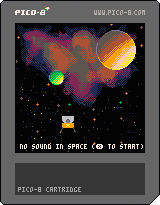
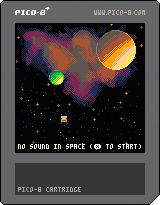
Fix text bug and cart images.

Changed region(s): [[0.0938, 0.6732, 0.9062, 0.7317], [0.375, 0.5561, 0.4688, 0.6439]]

diff --git a/docs/nosoundinspace.js b/docs/nosoundinspace.js
@@ -68,16 +68,16 @@ var _cartdat=[
 0,0,0,0,0,0,0,0,0,0,0,0,0,0,0,0,0,16,0,0,0,0,0,0,0,0,0,0,0,0,0,0,0,0,0,0,0,0,0,0,0,0,0,0,0,0,0,0,0,0,0,0,0,0,0,0,0,0,0,0,0,0,0,0,0,0,0,0,0,0,0,0,0,0,0,0,0,0,0,0,0,0,0,0,0,16,0,0,0,0,0,0,0,0,0,0,0,0,0,0,0,0,0,0,0,0,0,0,0,0,0,0,0,0,0,0,0,0,0,0,0,0,0,0,0,0,0,0,0,0,0,0,0,0,0,0,0,0,0,0,0,0,0,0,0,0,0,0,0,0,0,0,0,16,0,0,0,0,0,0,0,0,0,0,0,0,0,0,0,0,0,0,0,0,0,0,0,0,0,0,0,0,0,0,0,0,0,0,0,0,0,0,0,0,0,0,0,0,0,0,0,0,0,0,0,0,0,0,0,0,0,0,0,0,0,0,0,0,0,0,0,16,0,0,0,0,0,0,0,0,0,0,0,0,0,0,0,0,0,0,0,0,0,0,0,0,0,0,0,0,0,0,0,0,0,0,
 0,0,0,0,0,0,0,0,0,0,0,0,0,0,0,0,0,0,0,0,0,0,0,0,0,0,0,0,0,0,0,0,0,16,0,0,0,0,0,0,0,0,0,0,0,0,0,0,0,0,0,0,0,0,0,0,0,0,0,0,0,0,0,0,0,0,0,0,0,0,0,0,0,0,0,0,0,0,0,0,0,0,0,0,0,0,0,0,0,0,0,0,0,0,0,0,0,0,0,0,0,16,0,0,0,0,0,0,0,0,0,0,0,0,0,0,0,0,0,0,0,0,0,0,0,0,0,0,0,0,0,0,0,0,0,0,0,0,0,0,0,0,0,0,0,0,0,0,0,0,0,0,0,0,0,0,0,0,0,0,0,0,0,0,0,0,0,0,0,16,0,0,0,0,0,0,0,0,0,0,0,0,0,0,0,0,0,0,0,0,0,0,0,0,0,0,0,0,0,0,0,0,0,0,0,0,0,0,0,0,0,0,0,0,0,0,0,0,0,0,0,0,0,0,0,0,0,0,0,0,0,0,0,0,0,0,0,16,0,0,0,0,0,0,0,0,0,0,0,0,0,0,0,0,0,0,
 0,0,0,0,0,0,0,0,0,0,0,0,0,0,0,0,0,0,0,0,0,0,0,0,0,0,0,0,0,0,0,0,0,0,0,0,0,0,0,0,0,0,0,0,0,0,0,0,0,16,0,0,0,0,0,0,0,0,0,0,0,0,0,0,0,0,0,0,0,0,0,0,0,0,0,0,0,0,0,0,0,0,0,0,0,0,0,0,0,0,0,0,0,0,0,0,0,0,0,0,0,0,0,0,0,0,0,0,0,0,0,0,0,0,0,0,0,16,0,0,0,0,0,0,0,0,0,0,0,0,0,0,0,0,0,0,0,0,0,0,0,0,0,0,0,0,0,0,0,0,0,0,0,0,0,0,0,0,0,0,0,0,0,0,0,0,0,0,0,0,0,0,0,0,0,0,0,0,0,0,0,0,0,0,0,16,0,0,0,0,0,0,0,0,0,0,0,0,0,0,0,0,0,0,0,0,0,0,0,0,0,0,0,0,0,0,0,0,0,0,0,0,0,0,0,0,0,0,0,0,0,0,0,0,0,0,0,0,0,0,0,0,0,0,0,0,0,0,0,0,0,0,0,16,0,0,
-0,112,120,97,44,192,9,231,103,191,194,253,103,191,194,241,47,16,237,22,183,191,195,225,183,223,158,62,192,249,175,208,230,237,253,135,92,178,54,96,128,39,8,227,186,137,108,143,224,188,226,45,138,168,29,121,132,141,210,14,51,118,56,234,162,178,94,10,222,97,202,139,93,241,18,137,55,22,178,29,111,220,229,119,117,218,65,215,181,237,117,73,114,93,146,228,197,107,20,197,144,200,144,4,177,252,56,46,28,139,135,22,215,242,137,168,24,17,34,243,200,138,168,128,180,128,232,216,196,64,222,110,88,219,190,113,17,219,243,62,251,219,43,241,67,84,249,129,7,166,215,201,8,5,106,65,215,37,185,32,193,133,73,227,25,163,217,230,190,36,42,26,225,243,28,40,114,38,70,14,159,108,108,78,248,125,10,68,73,174,124,38,64,126,106,148,175,149,40,255,100,74,131,169,86,167,252,206,3,215,45,120,66,109,96,54,62,79,12,33,89,83,18,63,61,163,25,36,140,178,160,138,18,68,19,126,138,99,141,147,44,80,58,255,127,168,157,127,126,151,247,85,108,172,14,76,
-213,199,53,75,237,144,100,84,23,233,46,140,141,214,89,249,78,73,107,138,32,139,147,188,150,63,16,113,90,202,86,54,116,214,37,24,159,55,176,253,249,10,130,240,24,24,204,36,162,130,237,160,40,197,24,130,162,125,136,133,13,123,75,4,206,47,140,71,131,59,59,67,51,85,124,169,217,226,133,56,49,156,94,248,33,96,174,106,52,83,10,158,45,22,138,58,144,15,175,132,131,140,139,160,197,180,48,124,183,251,80,86,252,71,191,223,7,205,198,136,180,248,127,237,142,75,139,191,154,243,85,91,92,204,178,50,168,5,150,162,118,231,49,162,100,164,88,169,39,4,202,226,93,129,242,169,214,250,68,127,255,207,64,187,172,189,161,192,111,193,245,77,52,19,125,51,144,22,170,235,151,110,254,145,111,121,254,210,163,80,13,255,129,24,225,243,253,171,30,238,122,76,64,252,150,199,81,136,137,213,222,95,237,249,83,175,156,190,143,102,185,69,240,63,97,229,141,44,109,27,89,117,141,91,43,8,160,43,124,209,124,191,178,54,224,134,217,106,114,96,136,187,194,229,108,236,
-10,106,92,160,16,98,134,162,105,66,21,141,129,141,180,77,189,131,82,33,132,20,26,25,98,73,153,134,143,194,165,39,246,24,18,34,219,242,95,132,23,34,253,177,177,54,47,244,15,145,192,92,36,252,63,55,215,22,138,57,221,141,5,33,145,182,28,214,114,41,212,198,155,231,175,161,16,154,87,98,239,83,55,219,48,135,254,137,146,233,138,16,242,64,189,162,125,142,68,236,96,194,16,129,15,218,70,121,48,80,23,18,221,71,63,23,200,135,71,27,89,38,161,212,186,191,85,151,81,51,140,50,195,41,174,202,46,33,201,74,32,45,254,37,248,25,110,231,234,137,91,110,255,151,4,57,212,54,69,200,255,255,255,47,69,241,67,190,83,54,182,147,111,89,181,59,4,29,21,242,207,106,70,1,253,212,160,7,21,135,255,146,196,255,161,121,189,228,44,61,252,233,65,203,225,104,191,67,245,73,253,253,209,146,20,108,21,202,127,82,187,8,200,109,204,41,137,22,133,158,184,138,66,86,126,69,97,163,54,225,24,209,73,82,17,63,196,222,127,76,141,140,37,123,141,98,
-132,206,242,132,84,63,114,217,254,4,10,99,214,150,26,210,170,255,161,234,254,203,185,129,178,143,217,51,238,124,180,141,90,248,51,166,22,174,64,45,124,129,182,248,163,160,52,82,45,195,122,136,172,248,223,42,18,10,255,20,197,47,5,54,187,15,6,195,165,83,255,204,41,211,63,210,233,172,123,0,9,151,4,189,68,239,159,74,76,252,63,79,213,18,255,255,172,5,202,228,255,153,136,137,255,191,100,206,255,119,95,153,252,255,37,115,254,191,153,82,255,127,201,253,162,107,248,81,143,22,163,39,176,149,8,42,140,207,48,34,60,138,216,236,48,62,198,24,55,180,138,195,113,110,146,9,147,8,127,168,77,28,114,52,190,199,214,88,53,53,181,35,29,30,195,173,237,5,91,19,11,189,198,120,196,3,237,50,209,92,176,97,252,64,164,144,49,135,221,144,46,36,238,71,49,177,154,87,238,85,48,49,84,30,7,242,133,39,184,72,179,98,96,54,43,179,173,77,169,122,2,167,120,7,84,66,165,254,111,65,21,168,8,63,102,102,5,67,21,133,81,105,220,166,226,165,
-241,122,74,36,92,214,175,176,145,124,248,127,136,171,105,140,255,226,107,97,14,23,7,206,136,210,184,248,37,134,68,222,225,127,192,84,252,151,42,18,36,135,31,218,227,143,116,155,188,255,163,219,81,93,209,237,52,157,250,135,64,187,133,218,39,99,8,183,226,209,9,127,237,139,193,227,64,163,241,95,89,86,170,164,63,240,44,254,79,82,85,99,220,225,200,214,166,116,249,255,46,44,183,193,72,49,160,92,78,34,25,63,165,204,95,215,127,216,43,254,87,224,252,84,33,21,129,127,48,126,36,205,151,35,186,18,214,169,207,162,177,224,74,252,81,216,4,11,130,188,211,150,25,16,16,226,68,17,35,42,20,196,102,29,52,178,235,132,236,83,77,218,189,10,225,79,98,247,42,139,72,198,223,2,248,210,23,156,44,36,38,214,228,194,127,41,205,63,122,249,16,12,255,13,3,227,194,134,113,10,154,123,79,193,252,9,112,126,252,145,249,191,40,66,104,114,72,203,158,94,215,208,198,206,226,21,238,63,245,229,79,137,241,47,77,213,242,15,53,242,31,74,33,66,174,139,
-206,223,188,182,250,255,107,99,77,85,253,63,202,146,71,136,116,252,130,66,155,252,175,250,249,63,16,36,175,231,63,191,91,230,23,47,131,6,102,182,142,45,6,8,117,252,94,74,251,62,157,201,52,16,118,151,234,72,52,124,183,182,240,53,0,165,228,191,117,198,31,153,241,91,150,254,255,39,71,255,255,255,255,87,134,254,127,121,122,140,180,194,255,255,226,209,240,255,47,52,141,255,56,84,128,159,124,57,14,172,32,255,39,68,255,159,2,244,255,45,112,254,159,224,75,126,82,47,121,232,102,168,153,217,213,155,231,17,118,159,134,60,55,6,234,9,193,96,17,33,141,121,74,231,223,182,63,57,141,252,82,222,63,215,211,51,202,68,248,131,212,195,255,31,193,40,128,138,31,92,82,254,63,220,36,110,181,71,114,18,255,31,153,240,255,81,186,83,19,255,47,153,47,205,241,31,196,72,110,141,31,86,36,63,225,188,252,178,28,5,18,185,10,164,195,135,226,226,147,233,177,149,22,204,154,44,71,51,93,113,99,121,236,207,13,123,68,195,246,255,115,129,253,127,85,234,
-129,226,226,119,160,30,254,187,81,15,255,29,104,143,255,174,236,41,108,126,15,218,255,119,102,255,223,214,104,26,251,255,110,84,211,127,85,162,234,191,3,81,245,223,187,218,227,191,3,237,241,223,129,160,251,239,64,208,253,247,166,160,251,239,64,14,254,119,40,201,254,59,84,147,149,139,255,161,23,43,39,255,67,48,254,63,2,197,248,255,8,50,185,250,255,144,148,85,187,255,145,169,194,255,78,10,89,248,223,69,33,182,255,187,208,172,85,219,255,33,90,211,201,237,255,11,85,43,245,195,127,234,147,255,12,244,201,255,67,52,87,207,155,234,205,77,160,227,47,5,140,63,0,48,254,215,86,192,56,254,255,165,24,243,255,255,127,73,148,255,255,37,83,14,248,42,63,73,193,252,127,41,193,92,96,118,62,149,63,66,57,66,156,131,9,144,57,25,149,52,165,237,66,45,37,78,48,229,153,227,69,51,170,134,229,185,114,160,72,251,161,175,126,226,210,137,177,246,54,178,136,184,198,91,129,117,249,15,9,244,219,86,72,47,222,82,4,253,212,253,34,37,227,165,80,69,
-142,64,202,246,119,155,189,209,106,167,177,116,223,43,165,23,254,8,81,202,220,182,195,195,242,31,51,116,88,232,131,27,220,65,36,7,147,54,91,92,228,89,178,200,138,243,236,123,226,23,149,251,3,148,200,165,55,255,19,143,200,127,242,173,120,21,227,37,197,82,144,234,9,199,142,195,137,3,194,246,55,128,143,255,106,43,21,81,121,67,54,54,255,163,20,94,245,179,59,216,210,100,117,99,67,51,252,86,43,71,173,86,142,228,0,171,214,166,22,95,136,44,52,48,49,142,16,230,37,202,241,191,82,72,221,154,184,248,255,255,31,203,158,27,210,200,100,209,13,119,229,151,44,250,255,255,255,187,44,139,126,73,161,255,255,127,9,138,255,127,228,207,255,31,28,67,126,171,194,255,255,255,101,26,246,159,62,60,38,148,224,255,255,220,19,20,255,255,151,100,208,127,42,193,113,5,250,127,106,91,199,241,224,158,126,254,171,218,181,161,120,30,29,12,13,127,80,13,73,26,141,154,55,28,35,55,146,136,36,208,255,83,86,108,72,71,126,197,160,174,248,255,63,220,122,254,
-19,106,194,13,3,232,255,255,127,26,207,131,86,71,142,254,231,81,92,63,200,37,252,47,198,149,32,92,249,15,237,207,177,109,169,113,20,133,214,248,52,201,43,244,201,163,228,151,190,255,163,94,236,249,208,0,250,161,163,167,81,50,160,81,254,255,135,144,184,53,202,47,17,243,223,26,229,255,255,39,211,81,255,15,201,246,120,129,22,144,148,212,255,39,80,82,255,255,255,191,84,219,255,167,86,109,255,111,50,47,255,37,25,111,214,16,150,228,102,167,243,232,162,255,154,169,161,68,60,202,247,159,28,125,64,56,60,218,226,175,74,254,180,194,49,37,214,255,11,50,17,181,255,0,19,253,228,85,179,25,162,79,151,165,96,62,41,112,65,80,55,252,83,30,238,61,255,137,140,230,65,131,244,159,10,254,127,129,167,252,255,20,194,184,238,252,82,112,255,20,197,151,41,138,255,247,136,36,252,95,126,77,67,173,18,202,42,31,254,165,28,48,89,216,196,216,83,198,158,76,58,47,172,160,141,146,124,121,168,43,253,127,201,144,124,170,234,255,255,75,48,85,195,213,239,212,
-214,183,6,179,232,107,20,198,128,148,254,79,175,85,86,52,37,170,240,3,130,210,255,87,132,74,158,254,0,58,115,12,246,7,236,141,167,161,13,178,204,6,3,110,11,220,180,238,189,192,123,129,247,2,239,104,218,117,139,153,124,80,176,171,17,86,204,79,38,165,145,6,147,208,88,58,244,83,204,236,34,74,79,213,212,13,19,225,177,40,84,23,211,17,50,82,150,100,198,210,17,255,127,24,147,107,69,248,22,189,40,95,166,47,177,92,143,132,3,176,151,62,107,173,246,76,149,40,17,14,181,5,183,35,92,47,150,68,195,159,5,209,240,255,215,5,3,178,31,193,186,212,224,136,124,232,1,186,172,227,172,164,50,184,48,163,200,50,185,182,184,48,87,20,77,56,32,215,142,8,250,79,208,96,37,207,203,13,189,138,4,243,84,40,79,105,100,134,241,148,50,74,82,86,17,236,75,55,213,180,128,46,73,116,54,240,147,14,204,59,167,76,120,49,45,149,144,207,37,221,1,0,0,0,0,0,0,0,0,0,0,0,0,0,0,0,0,0,0,0,0,0,0,0,0,0,
+0,112,120,97,44,192,9,227,103,191,194,253,103,191,194,241,47,16,237,22,183,191,195,225,183,223,158,62,192,249,175,208,230,237,253,135,92,178,54,96,128,39,8,227,186,137,108,143,224,188,226,45,138,168,29,121,132,141,210,14,51,118,56,234,162,178,94,10,222,97,202,139,93,241,18,137,55,22,178,29,111,220,229,119,117,218,65,215,181,237,117,73,114,93,146,228,197,107,20,197,144,200,144,4,177,252,56,46,28,139,135,22,215,242,137,168,24,17,34,243,200,138,168,128,180,128,232,216,196,64,222,110,88,219,190,113,17,219,243,62,251,219,43,241,67,84,249,129,7,166,215,201,8,5,106,65,215,37,185,32,193,133,73,227,25,163,217,230,190,36,42,26,225,243,28,40,114,38,70,14,159,108,108,78,248,125,10,68,73,174,124,38,64,126,106,148,175,149,40,255,100,74,131,169,86,167,252,206,3,215,45,120,66,109,96,54,62,79,12,33,89,83,18,63,61,163,25,36,140,178,160,138,18,68,19,126,138,99,141,147,44,80,58,255,127,168,157,127,126,151,247,85,108,172,14,76,
+213,199,53,75,237,144,100,84,23,233,46,140,141,214,89,249,78,73,107,138,32,139,147,188,150,63,16,113,90,202,86,54,116,214,37,24,159,55,176,253,249,10,130,240,24,24,204,36,162,130,237,160,40,197,24,130,162,125,136,133,13,123,75,4,206,47,140,71,131,59,59,67,51,85,124,169,217,226,133,56,49,156,94,248,33,96,174,106,52,83,10,158,45,22,138,58,144,15,175,132,131,140,139,160,197,180,48,124,183,251,80,86,252,71,191,223,7,205,198,136,180,248,255,255,213,156,175,218,226,94,20,117,65,43,176,20,149,43,143,17,37,19,197,70,59,32,80,182,62,43,80,62,213,90,159,232,239,255,233,219,97,237,13,5,126,11,174,111,161,89,232,155,129,180,80,93,191,116,243,143,124,202,243,151,30,133,106,248,15,196,8,159,239,95,245,112,215,91,2,226,183,60,142,66,76,172,246,254,106,207,159,122,229,244,125,52,203,45,130,255,9,43,111,100,105,219,200,170,107,220,90,65,0,93,225,139,230,251,149,177,1,55,172,86,139,3,67,220,21,46,103,99,87,80,227,2,
+133,16,51,20,77,19,170,104,12,108,164,109,234,29,148,10,33,164,208,200,16,219,202,52,124,20,46,61,177,199,144,16,217,150,255,34,188,16,233,143,141,181,121,161,127,136,4,230,34,225,255,185,185,182,80,204,233,110,44,8,137,180,229,176,150,75,161,54,222,60,127,13,133,208,188,18,123,159,186,217,134,57,244,79,148,76,87,132,144,7,234,21,237,115,36,98,7,19,134,8,124,208,54,202,131,129,186,144,232,62,250,185,64,62,60,218,200,50,9,165,214,253,173,186,140,154,97,148,25,78,113,85,118,9,73,86,2,105,241,47,193,207,112,59,87,79,220,114,251,191,36,200,161,182,41,66,254,255,255,127,41,138,31,242,157,178,177,157,124,203,170,221,33,232,168,144,127,86,51,10,232,167,6,61,168,56,252,151,36,254,15,205,235,37,103,233,225,79,15,90,14,71,251,29,170,79,234,239,143,150,164,96,171,80,254,147,218,69,64,110,99,78,73,180,40,244,196,85,20,178,242,43,10,27,181,9,199,136,78,146,138,248,33,246,254,99,106,100,44,217,107,20,35,116,150,39,
+164,250,145,203,246,39,80,24,179,182,212,144,86,253,15,85,247,95,206,13,148,125,204,158,113,231,163,109,212,194,159,49,181,112,5,106,225,11,180,197,31,5,165,145,106,25,214,67,100,197,255,86,145,80,248,167,40,126,41,176,217,125,48,24,46,157,250,103,78,153,254,145,78,103,221,3,72,184,36,232,37,122,255,84,98,226,255,121,170,150,248,255,103,45,80,38,255,207,68,76,252,255,37,115,254,191,251,202,228,255,47,153,243,255,205,148,250,255,75,238,23,93,195,143,122,180,24,61,129,173,68,80,97,124,134,17,225,81,196,102,135,241,49,198,184,161,85,28,142,115,147,76,152,68,248,67,109,226,144,163,241,61,182,198,170,169,169,29,233,240,24,110,109,47,216,154,88,232,53,198,35,30,104,151,137,230,130,13,227,7,34,133,140,57,236,134,116,33,113,63,138,137,213,188,114,175,130,137,161,242,56,144,47,60,193,69,154,21,3,179,89,153,109,109,74,213,19,56,197,59,160,18,42,245,127,11,170,64,69,248,49,51,43,24,170,40,140,74,227,54,21,47,141,215,83,34,
+225,178,126,133,141,228,195,255,67,92,77,99,252,23,95,11,115,184,56,112,70,148,198,197,47,49,36,242,14,255,3,166,226,191,84,145,32,57,252,208,30,127,164,219,228,253,31,221,142,234,138,110,167,233,212,63,4,218,45,212,62,25,67,184,21,143,78,248,107,95,12,30,7,26,141,255,202,178,82,37,253,129,103,241,127,146,170,26,227,14,71,182,54,165,203,255,119,97,185,13,70,138,1,229,114,18,201,248,41,101,254,186,254,195,94,241,191,2,231,167,10,169,8,252,131,241,35,105,190,28,209,149,176,78,125,22,141,5,87,226,143,194,38,88,16,228,157,182,204,128,128,16,39,138,24,81,161,32,54,235,160,145,93,39,100,159,106,210,238,85,8,127,18,187,87,89,68,50,254,22,192,151,190,224,100,33,49,177,38,23,254,75,105,254,209,203,135,96,248,111,24,24,23,54,140,83,208,220,123,10,230,79,128,243,227,143,204,255,69,17,66,147,67,90,246,244,186,134,54,118,22,175,112,255,169,47,127,74,140,127,105,170,150,127,168,145,255,80,10,17,114,93,116,254,230,181,
+213,255,95,27,107,170,234,255,81,150,60,66,164,227,23,20,218,228,127,213,207,255,129,32,121,61,255,249,221,50,191,120,25,52,48,179,117,108,49,64,168,227,247,82,218,247,233,76,166,129,176,187,84,71,162,225,187,181,133,175,1,40,37,255,173,51,254,200,140,223,178,244,255,63,57,250,255,255,255,191,50,244,255,203,211,99,164,21,254,255,23,143,134,255,127,161,105,252,199,161,2,252,228,203,113,96,5,249,63,33,250,255,20,160,255,111,129,243,255,4,95,242,147,122,201,67,55,67,205,204,174,222,60,143,176,251,52,228,185,49,80,79,8,6,139,8,105,204,83,58,255,182,253,201,105,228,151,242,254,185,158,158,81,38,194,31,164,30,254,255,8,70,1,84,252,224,146,242,255,225,38,113,171,61,146,147,248,255,200,132,255,143,210,157,154,248,127,201,124,105,142,255,32,70,114,107,252,176,34,249,9,231,229,151,229,40,144,200,85,32,29,62,20,23,159,76,143,173,180,96,214,100,57,154,233,138,27,203,99,127,110,216,35,26,182,255,159,11,236,255,171,82,15,20,23,191,
+3,245,240,223,141,122,248,239,64,123,252,119,101,79,97,243,123,208,254,191,51,251,255,182,70,211,216,255,119,163,154,254,171,18,85,255,29,136,170,255,222,213,30,255,29,104,143,255,14,4,221,127,7,130,238,191,55,5,221,127,7,114,240,191,67,73,246,223,161,154,172,92,252,15,189,88,57,249,31,130,241,255,17,40,198,255,71,144,201,213,255,135,164,172,218,253,143,76,21,254,119,82,200,194,255,46,10,177,253,223,133,102,173,218,254,15,209,154,78,110,255,95,168,90,169,31,254,83,159,252,103,160,79,254,31,162,185,122,222,84,111,110,2,29,127,41,96,252,1,128,241,191,182,2,198,241,255,47,197,152,255,255,255,75,162,252,255,47,153,114,192,87,249,73,10,230,255,75,9,230,2,179,243,169,252,17,202,17,226,28,76,128,204,201,168,164,41,109,23,106,41,113,130,41,207,28,47,154,81,53,44,207,149,3,69,218,15,125,245,19,151,78,140,181,183,145,69,196,53,222,10,172,203,127,72,160,223,182,66,122,241,150,34,232,167,238,23,41,25,47,133,42,114,4,82,182,
+191,219,236,141,86,59,141,165,251,94,41,189,240,71,136,82,230,182,29,30,150,255,152,161,195,66,31,220,224,14,34,57,152,180,217,226,34,207,146,69,86,156,103,223,19,191,168,220,31,160,68,46,189,249,159,120,68,254,147,111,197,171,24,47,41,150,130,84,79,56,118,28,78,28,16,182,191,1,124,252,87,91,169,136,202,27,178,177,249,31,165,240,170,159,221,193,150,38,171,27,27,154,225,183,90,57,106,181,114,36,7,88,181,54,181,248,66,100,161,129,137,113,132,48,47,81,142,255,149,66,234,214,196,197,255,255,255,88,246,220,144,70,38,139,110,184,43,191,100,209,255,255,255,223,101,89,244,75,10,253,255,255,75,80,252,255,35,127,254,255,224,24,242,91,21,254,255,255,47,211,176,255,244,225,49,161,4,255,255,231,158,160,248,255,191,36,131,254,83,9,142,43,208,255,83,219,58,142,7,247,244,243,95,213,174,13,197,243,232,96,104,248,131,106,72,210,104,212,188,225,24,185,145,68,36,129,254,159,178,98,67,58,242,43,6,117,197,255,255,225,214,243,159,80,19,110,
+24,64,255,255,255,211,120,30,180,58,114,244,63,143,226,250,65,46,225,127,49,174,4,225,202,127,104,127,142,109,75,141,163,40,180,198,167,73,94,161,79,30,37,191,244,253,31,245,98,207,135,6,208,15,29,61,141,146,1,141,242,255,63,132,196,173,81,126,137,152,255,214,40,255,255,63,153,142,250,127,72,182,199,11,180,128,164,164,254,63,129,146,250,255,255,255,165,218,254,63,181,106,251,127,147,121,249,47,201,120,179,134,176,36,55,59,157,71,23,253,215,76,13,37,226,81,190,255,228,232,3,194,225,209,22,127,85,242,167,21,142,41,177,254,95,144,137,168,253,7,152,232,39,175,154,205,16,125,186,44,5,243,73,129,11,130,186,225,159,242,112,239,249,79,100,52,15,26,164,255,84,240,255,11,60,229,255,167,16,198,117,231,151,130,251,167,40,190,76,81,252,191,71,36,225,255,242,107,26,106,149,80,86,249,240,47,229,128,201,194,38,198,158,50,246,100,210,121,97,5,109,148,228,203,67,93,233,255,75,134,228,83,85,255,255,95,130,169,26,174,126,167,182,190,53,152,
+69,95,163,48,6,164,244,127,122,173,178,162,41,81,133,31,16,148,254,191,34,84,242,244,7,208,153,99,176,63,96,111,60,13,109,144,101,54,24,112,91,224,166,117,239,5,222,11,188,23,120,71,211,174,91,204,228,131,130,93,141,176,98,126,50,41,141,52,152,132,198,210,161,159,98,102,23,81,122,170,166,110,152,8,143,69,161,186,152,142,144,145,178,36,51,150,142,248,255,195,152,92,43,194,183,232,69,249,50,125,137,229,122,36,28,128,189,244,89,107,181,103,170,68,137,112,168,45,184,29,225,122,177,36,26,254,44,136,134,255,191,46,24,144,253,8,214,165,6,71,228,67,15,208,101,29,103,37,149,193,133,25,69,150,201,181,197,133,185,162,104,194,1,185,118,68,208,127,130,6,43,121,94,110,232,85,36,152,167,66,121,74,35,51,140,167,148,81,146,178,138,96,95,186,169,166,5,116,73,162,179,129,159,116,96,222,57,101,194,139,105,169,132,124,46,233,14,0,0,0,0,0,0,0,0,0,0,0,0,0,0,0,0,0,0,0,0,0,0,0,0,0,0,0,0,0,
 0,0,0,0,0,0,0,0,0,0,0,0,0,0,0,0,0,0,0,0,0,0,0,0,0,0,0,0,0,0,0,0,0,0,0,0,0,0,0,0,0,0,0,0,0,0,0,0,0,0,0,0,0,0,0,0,0,0,0,0,0,0,0,0,0,0,0,0,0,0,0,0,0,0,0,0,0,0,0,0,0,0,0,0,0,0,0,0,0,0,0,0,0,0,0,0,0,0,0,0,0,0,0,0,0,0,0,0,0,0,0,0,0,0,0,0,0,0,0,0,0,0,0,0,0,0,0,0,0,0,0,0,0,0,0,0,0,0,0,0,0,0,0,0,0,0,0,0,0,0,0,0,0,0,0,0,0,0,0,0,0,0,0,0,0,0,0,0,0,0,0,0,0,0,0,0,0,0,0,0,0,0,0,0,0,0,0,0,0,0,0,0,0,0,0,0,0,0,0,0,0,0,0,0,0,0,0,0,0,0,0,0,0,0,0,0,0,0,0,0,0,0,0,0,0,0,0,0,0,0,0,0,0,0,0,0,0,0,0,0,0,0,0,0,0,0,0,0,0,0,0,0,0,0,0,0,
 0,0,0,0,0,0,0,0,0,0,0,0,0,0,0,0,0,0,0,0,0,0,0,0,0,0,0,0,0,0,0,0,0,0,0,0,0,0,0,0,0,0,0,0,0,0,0,0,0,0,0,0,0,0,0,0,0,0,0,0,0,0,0,0,0,0,0,0,0,0,0,0,0,0,0,0,0,0,0,0,0,0,0,0,0,0,0,0,0,0,0,0,0,0,0,0,0,0,0,0,0,0,0,0,0,0,0,0,0,0,0,0,0,0,0,0,0,0,0,0,0,0,0,0,0,0,0,0,0,0,0,0,0,0,0,0,0,0,0,0,0,0,0,0,0,0,0,0,0,0,0,0,0,0,0,0,0,0,0,0,0,0,0,0,0,0,0,0,0,0,0,0,0,0,0,0,0,0,0,0,0,0,0,0,0,0,0,0,0,0,0,0,0,0,0,0,0,0,0,0,0,0,0,0,0,0,0,0,0,0,0,0,0,0,0,0,0,0,0,0,0,0,0,0,0,0,0,0,0,0,0,0,0,0,0,0,0,0,0,0,0,0,0,0,0,0,0,0,0,0,0,0,0,0,0,0,
 0,0,0,0,0,0,0,0,0,0,0,0,0,0,0,0,0,0,0,0,0,0,0,0,0,0,0,0,0,0,0,0,0,0,0,0,0,0,0,0,0,0,0,0,0,0,0,0,0,0,0,0,0,0,0,0,0,0,0,0,0,0,0,0,0,0,0,0,0,0,0,0,0,0,0,0,0,0,0,0,0,0,0,0,0,0,0,0,0,0,0,0,0,0,0,0,0,0,0,0,0,0,0,0,0,0,0,0,0,0,0,0,0,0,0,0,0,0,0,0,0,0,0,0,0,0,0,0,0,0,0,0,0,0,0,0,0,0,0,0,0,0,0,0,0,0,0,0,0,0,0,0,0,0,0,0,0,0,0,0,0,0,0,0,0,0,0,0,0,0,0,0,0,0,0,0,0,0,0,0,0,0,0,0,0,0,0,0,0,0,0,0,0,0,0,0,0,0,0,0,0,0,0,0,0,0,0,0,0,0,0,0,0,0,0,0,0,0,0,0,0,0,0,0,0,0,0,0,0,0,0,0,0,0,0,0,0,0,0,0,0,0,0,0,0,0,0,0,0,0,0,0,0,0,0,0,

diff --git a/docs/index.html b/docs/index.html
@@ -982,7 +982,7 @@ canvas{
 
 .p8_start_button{
 	cursor:pointer;
[2 lines of base64/hex data omitted]
 	-repeat center;
 	-webkit-background-size:cover; -moz-background-size:cover; -o-background-size:cover; background-size:cover;
 }
